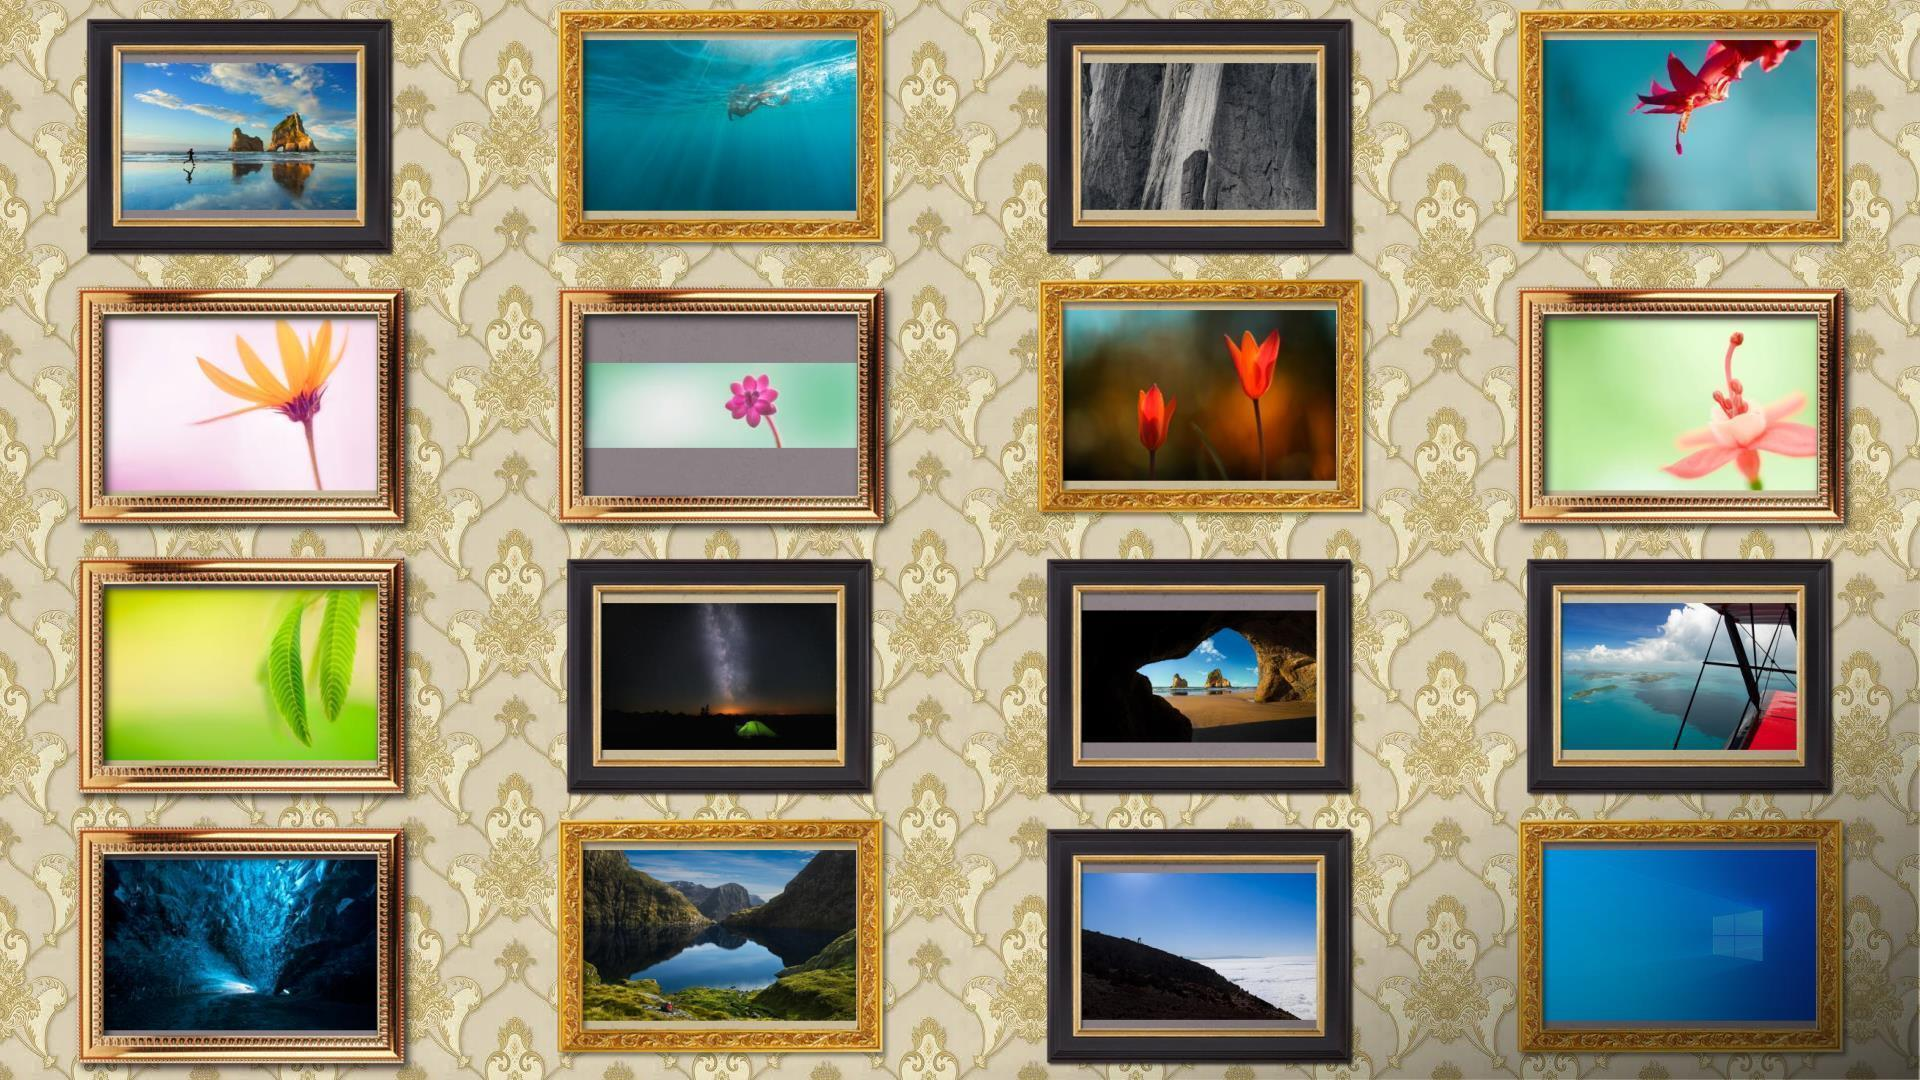
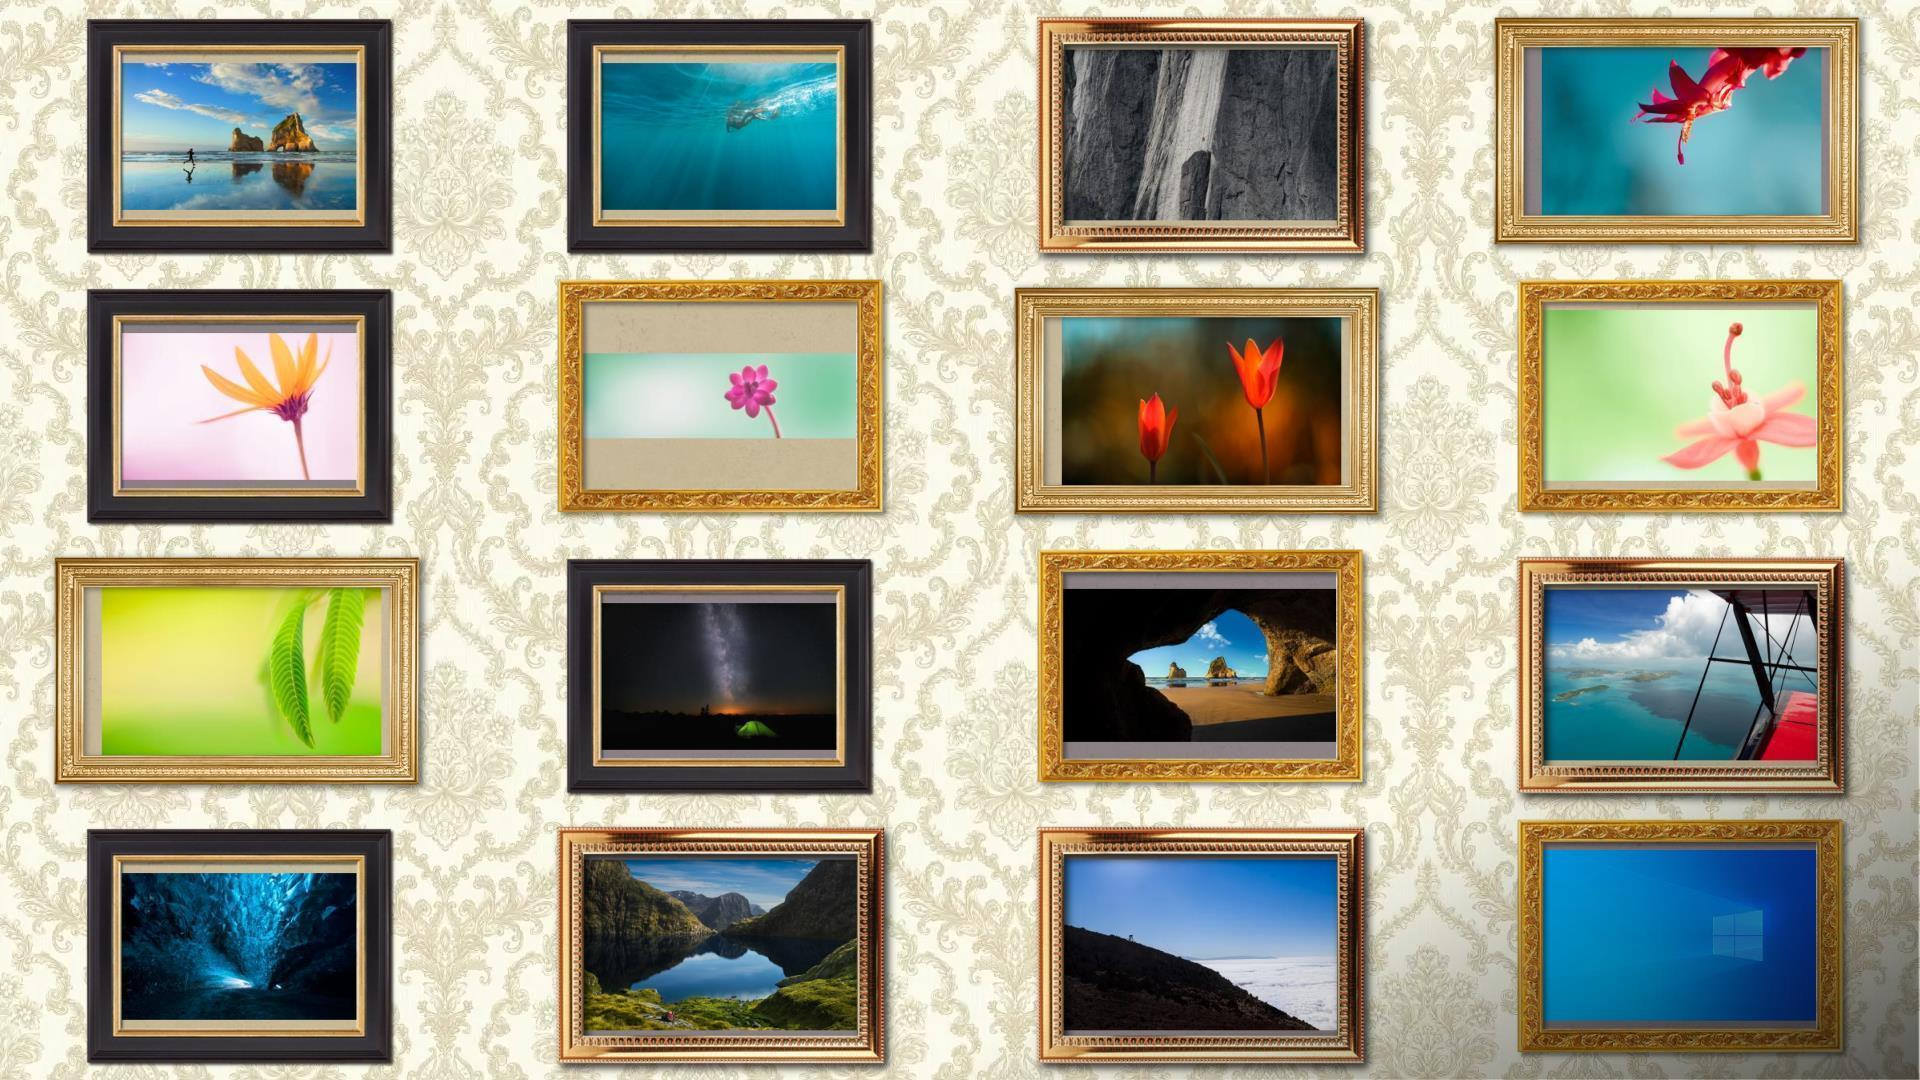
Patches for Shell.Connector
Patches for Shell.Connector

diff --git a/config.js b/config.js
@@ -62,6 +62,17 @@ var config = {
 				right:		77,
 				bottom:		70		
 			}
-		}
+		},
+		{
+			// Frame image path
+			image: "includes\\images\\frame4.png",
+			// Padding for positioning picture in frame
+			paddings:{
+				left:		98,
+				top:		91,
+				right:		92,
+				bottom:		92		
+			}
+		}		
 	]
 }
